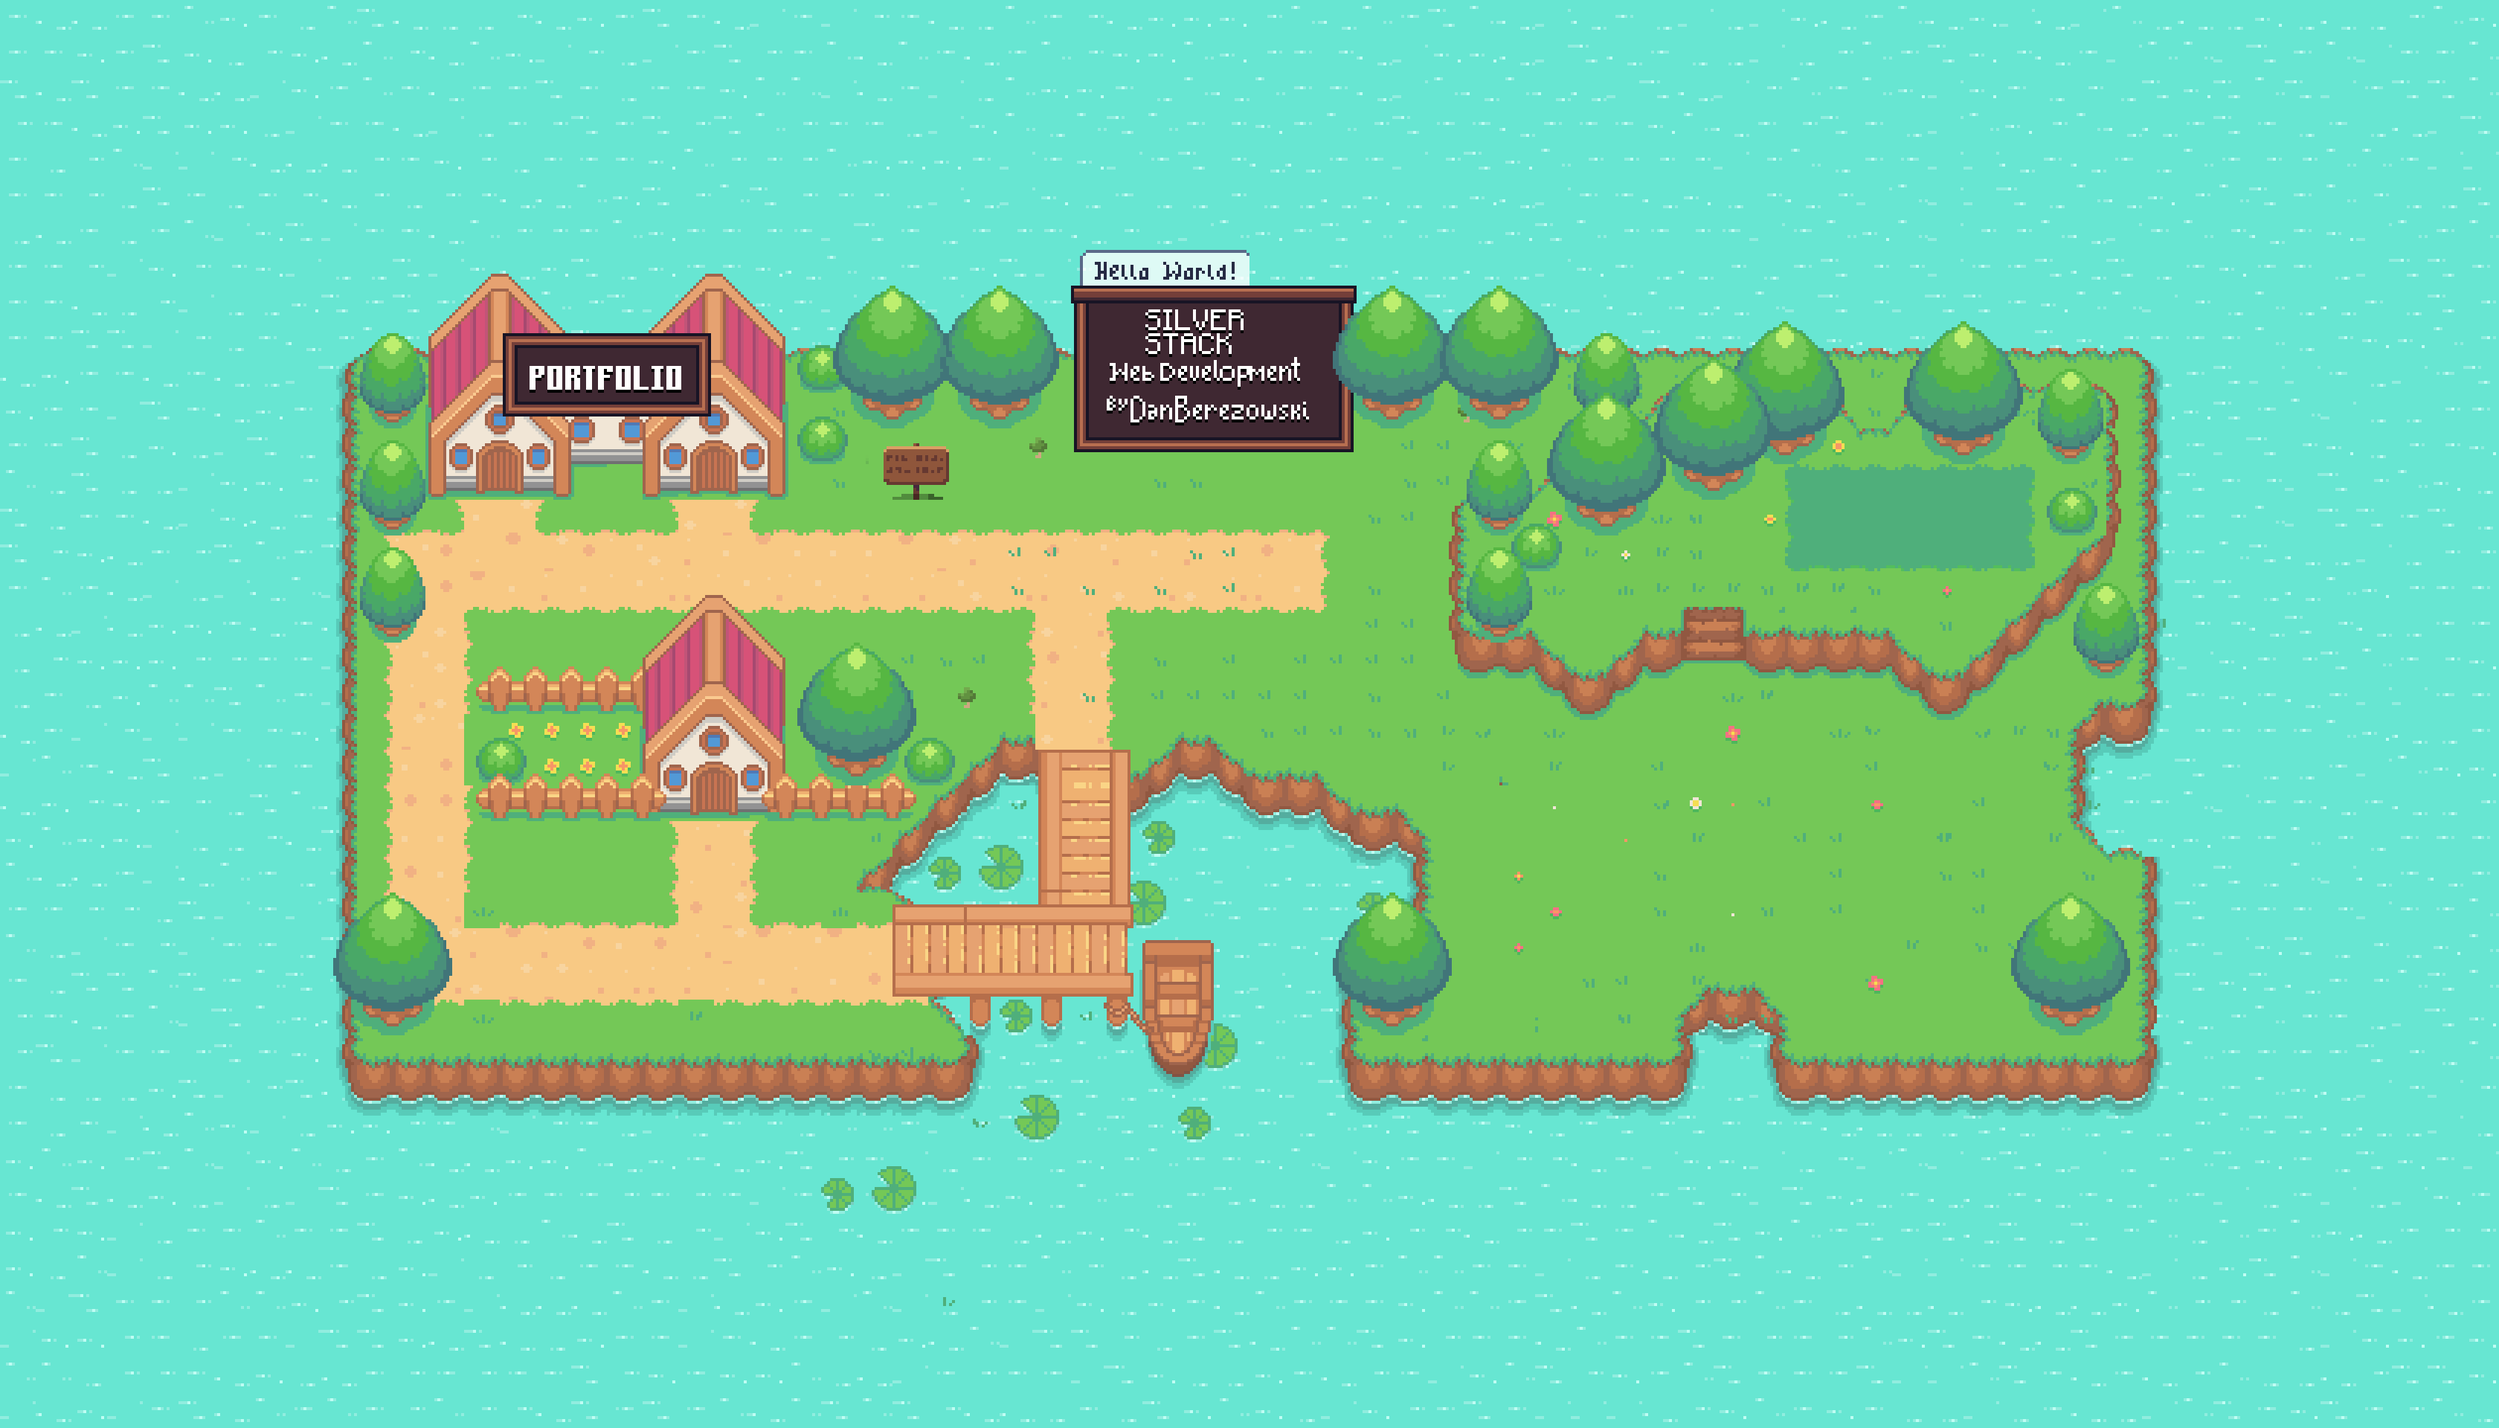
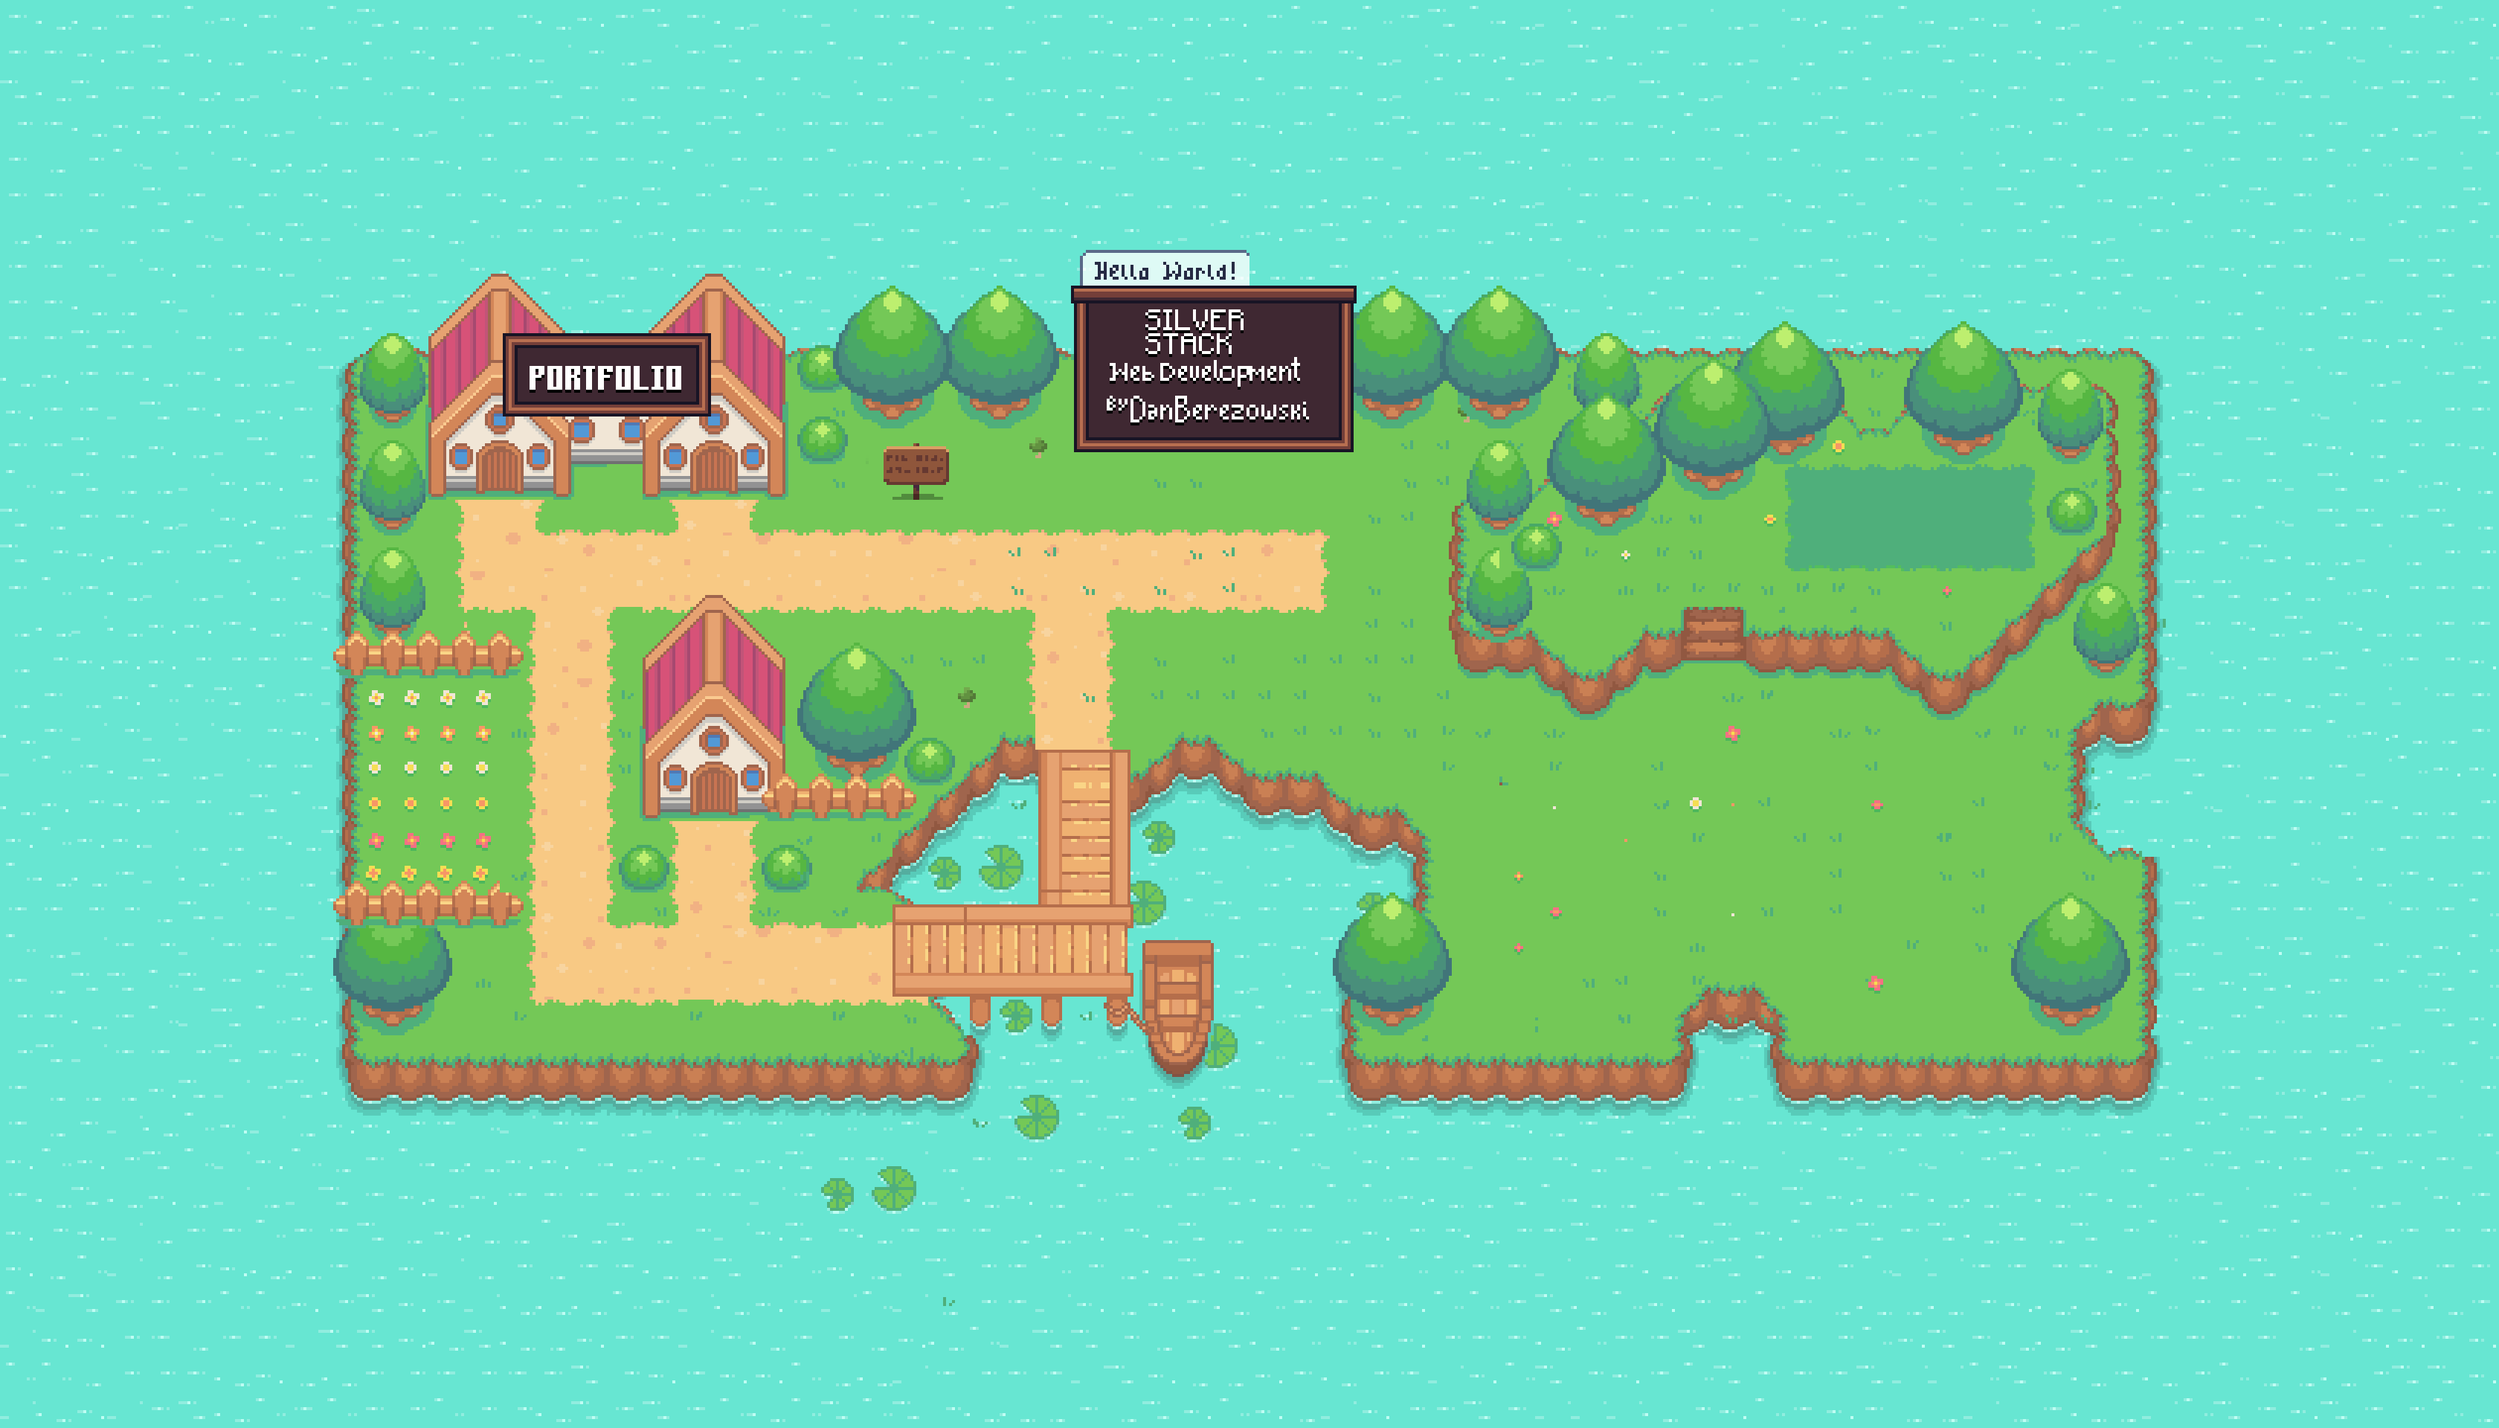
map change

Changed region(s): [[0.125, 0.375, 0.3438, 0.7188], [0.5312, 0.2188, 0.5625, 0.2812]]

diff --git a/js/data/collisions.js b/js/data/collisions.js
@@ -32,14 +32,14 @@ const collision = [
   0, 0, 0, 0, 0, 0, 0, 1025, 0, 0, 0, 0, 1025, 1446, 1446, 0, 0, 0, 0, 0, 0, 0,
   0, 1025, 1025, 0, 0, 0, 0, 0, 1025, 0, 0, 0, 1025, 1025, 0, 0, 0, 1025, 1025,
   1025, 0, 0, 0, 0, 0, 0, 0, 0, 0, 0, 0, 0, 0, 0, 0, 0, 0, 0, 0, 0, 0, 0, 0, 0,
-  0, 0, 1025, 1025, 0, 0, 0, 0, 1025, 1025, 0, 1025, 0, 0, 0, 0, 0, 0, 0, 1025,
-  1025, 1025, 1025, 1025, 1025, 1025, 1025, 0, 0, 0, 0, 0, 0, 0, 1025, 0, 0,
-  1025, 0, 0, 1025, 1025, 1025, 0, 0, 0, 1025, 1025, 0, 0, 0, 0, 0, 0, 0, 0, 0,
-  0, 0, 0, 0, 0, 0, 0, 0, 0, 0, 0, 0, 0, 0, 1025, 0, 0, 1025, 1025, 1025, 1025,
-  0, 0, 1025, 1025, 0, 0, 0, 0, 0, 0, 0, 0, 0, 0, 0, 0, 0, 0, 0, 0, 0, 0, 0, 0,
-  0, 1025, 0, 1025, 0, 1025, 0, 0, 0, 0, 0, 0, 0, 0, 0, 1025, 1025, 0, 0, 0, 0,
-  0, 0, 0, 0, 0, 0, 0, 0, 0, 0, 0, 0, 0, 0, 0, 0, 0, 1446, 0, 0, 0, 0, 0, 0, 0,
-  0, 0, 0, 0, 0, 0, 1025, 0, 0, 0, 0, 0, 0, 0, 0, 0, 0, 0, 0, 0, 0, 0, 0, 1025,
+  0, 0, 1025, 1025, 0, 1446, 1446, 0, 1025, 1025, 0, 1025, 0, 0, 0, 0, 0, 0, 0,
+  1025, 1025, 1025, 1025, 1025, 1025, 1025, 1025, 0, 0, 0, 0, 0, 0, 0, 1025, 0,
+  0, 1025, 0, 0, 1025, 1025, 1025, 0, 0, 0, 1025, 1025, 0, 0, 0, 0, 0, 0, 0, 0,
+  0, 0, 0, 0, 0, 0, 0, 0, 0, 0, 0, 0, 0, 0, 0, 1025, 0, 0, 1025, 0, 0, 1025, 0,
+  0, 1025, 1025, 0, 0, 0, 0, 0, 0, 0, 0, 0, 0, 0, 0, 0, 0, 0, 0, 0, 0, 0, 0, 0,
+  1025, 0, 1025, 0, 1025, 0, 0, 0, 0, 0, 0, 0, 0, 0, 1025, 1025, 0, 0, 0, 0, 0,
+  0, 0, 0, 0, 0, 0, 0, 0, 0, 0, 0, 0, 0, 0, 0, 0, 1446, 0, 0, 0, 0, 0, 0, 0, 0,
+  0, 0, 0, 0, 0, 1025, 0, 0, 0, 0, 0, 0, 0, 0, 0, 0, 0, 0, 0, 0, 0, 0, 1025,
   1025, 0, 0, 0, 1025, 1025, 0, 0, 0, 0, 0, 0, 0, 0, 0, 0, 1025, 0, 0, 0, 0, 0,
   0, 0, 0, 0, 0, 0, 0, 0, 0, 0, 0, 0, 0, 0, 0, 1025, 1025, 0, 0, 0, 0, 0, 0, 0,
   0, 0, 0, 0, 0, 0, 0, 0, 0, 0, 0, 0, 0, 0, 0, 0, 0, 0, 0, 0, 0, 0, 1025, 0, 0,
@@ -52,47 +52,47 @@ const collision = [
   0, 0, 0, 0, 1025, 0, 0, 0, 0, 0, 0, 0, 0, 0, 0, 0, 0, 0, 0, 0, 0, 0, 0, 0, 0,
   0, 1025, 0, 0, 0, 0, 0, 0, 0, 0, 0, 0, 0, 0, 0, 0, 0, 0, 0, 0, 0, 0, 0, 0, 0,
   0, 0, 0, 0, 0, 0, 0, 0, 0, 1025, 0, 0, 0, 0, 0, 0, 0, 0, 0, 0, 0, 0, 0, 1025,
-  1025, 0, 0, 0, 0, 0, 0, 0, 0, 0, 0, 0, 0, 0, 0, 0, 0, 0, 0, 0, 0, 0, 1025, 0,
+  1025, 0, 0, 0, 0, 0, 0, 0, 0, 0, 0, 0, 0, 0, 0, 0, 0, 0, 0, 0, 0, 0, 1025,
+  1446, 1446, 1446, 0, 0, 0, 0, 0, 0, 0, 0, 0, 0, 0, 0, 0, 0, 0, 0, 0, 0, 0, 0,
+  0, 0, 0, 0, 0, 0, 0, 0, 0, 0, 1025, 1025, 1025, 1025, 0, 0, 1446, 1446, 1025,
+  1025, 1025, 0, 1025, 0, 0, 1025, 1025, 0, 0, 0, 0, 0, 0, 0, 0, 0, 0, 0, 0, 0,
+  0, 0, 0, 0, 0, 0, 1025, 0, 0, 0, 0, 0, 0, 0, 0, 0, 1025, 1025, 0, 0, 0, 0, 0,
   0, 0, 0, 0, 0, 0, 0, 0, 0, 0, 0, 0, 0, 0, 0, 0, 0, 0, 0, 0, 0, 0, 0, 0, 0, 0,
-  0, 0, 0, 0, 0, 0, 1025, 1025, 1025, 1025, 0, 0, 1446, 1446, 1025, 1025, 1025,
-  0, 1025, 0, 0, 1025, 1025, 0, 0, 0, 0, 0, 0, 0, 0, 0, 0, 0, 0, 0, 0, 0, 0, 0,
-  0, 0, 1025, 0, 0, 0, 0, 1025, 1025, 1025, 1025, 1025, 1025, 1025, 1025, 0, 0,
+  0, 0, 1025, 0, 0, 0, 0, 0, 1025, 0, 0, 0, 0, 0, 0, 0, 0, 0, 0, 0, 0, 0, 0, 0,
+  0, 0, 0, 1025, 0, 0, 0, 0, 0, 0, 0, 0, 1025, 1025, 1025, 1025, 0, 0, 0, 0, 0,
   0, 0, 0, 0, 0, 0, 0, 0, 0, 0, 0, 0, 0, 0, 0, 0, 0, 0, 0, 0, 0, 0, 0, 0, 0, 0,
-  0, 0, 0, 0, 1025, 0, 0, 0, 0, 0, 1025, 0, 0, 0, 0, 0, 0, 0, 0, 0, 0, 0, 0, 0,
-  0, 0, 0, 0, 0, 1025, 0, 0, 0, 0, 1025, 0, 0, 0, 1025, 1025, 1025, 1025, 0, 0,
-  0, 0, 0, 0, 0, 0, 0, 0, 0, 0, 0, 0, 0, 0, 0, 0, 0, 0, 0, 0, 0, 0, 0, 0, 0, 0,
-  0, 0, 0, 0, 0, 0, 0, 0, 0, 0, 1025, 0, 0, 0, 0, 0, 0, 0, 0, 0, 0, 0, 0, 0, 0,
-  0, 0, 0, 0, 1025, 0, 0, 0, 0, 1025, 1025, 1025, 1025, 1025, 0, 0, 1025, 1025,
-  1025, 1025, 0, 0, 0, 1025, 0, 0, 0, 1446, 1025, 0, 0, 0, 0, 0, 0, 0, 0, 0, 0,
-  0, 0, 0, 0, 0, 0, 0, 0, 0, 0, 0, 0, 0, 0, 0, 0, 1025, 0, 0, 0, 0, 0, 0, 0, 0,
-  0, 0, 0, 0, 0, 0, 0, 0, 0, 0, 1025, 0, 0, 0, 0, 0, 0, 0, 0, 0, 0, 0, 0, 0, 0,
-  0, 1025, 1025, 1025, 0, 0, 0, 0, 1025, 0, 1025, 1025, 1025, 0, 0, 0, 0, 0, 0,
-  0, 0, 0, 0, 0, 0, 0, 0, 0, 0, 0, 0, 0, 0, 0, 0, 0, 1025, 0, 0, 0, 0, 0, 0, 0,
-  0, 0, 0, 0, 0, 0, 0, 0, 0, 0, 0, 1025, 0, 0, 0, 0, 0, 0, 0, 0, 0, 0, 0, 0, 0,
-  0, 0, 1025, 0, 0, 0, 0, 0, 0, 1446, 0, 0, 0, 0, 1025, 1025, 0, 0, 0, 0, 0, 0,
-  0, 0, 0, 0, 0, 0, 0, 0, 0, 0, 0, 0, 0, 0, 0, 1025, 0, 0, 0, 0, 0, 0, 0, 0, 0,
+  0, 0, 0, 0, 0, 0, 0, 1025, 0, 0, 0, 0, 0, 0, 0, 0, 0, 0, 0, 0, 0, 0, 0, 0, 0,
+  0, 1025, 0, 0, 0, 0, 0, 0, 0, 0, 1025, 0, 0, 1025, 1025, 1025, 1025, 0, 0, 0,
+  1025, 0, 0, 0, 1446, 1025, 0, 0, 0, 0, 0, 0, 0, 0, 0, 0, 0, 0, 0, 0, 0, 0, 0,
   0, 0, 0, 0, 0, 0, 0, 0, 0, 1025, 0, 0, 0, 0, 0, 0, 0, 0, 0, 0, 0, 0, 0, 0, 0,
-  1025, 1025, 1025, 1025, 0, 0, 0, 1446, 0, 0, 0, 0, 0, 0, 1025, 0, 0, 0, 0, 0,
-  0, 0, 0, 0, 0, 0, 0, 0, 0, 0, 0, 0, 0, 0, 0, 1025, 0, 0, 0, 0, 0, 0, 0, 0, 0,
-  0, 0, 0, 0, 0, 0, 0, 0, 0, 1025, 0, 0, 0, 0, 0, 0, 0, 0, 0, 0, 0, 0, 0, 0, 0,
-  0, 0, 0, 0, 0, 0, 0, 1446, 0, 0, 0, 0, 0, 1446, 0, 0, 0, 0, 0, 0, 0, 0, 0, 0,
+  0, 0, 0, 1025, 0, 0, 0, 0, 0, 0, 0, 0, 0, 0, 0, 0, 0, 0, 0, 1025, 1025, 1025,
+  1446, 0, 0, 0, 1025, 0, 1025, 1025, 1025, 0, 0, 0, 0, 0, 0, 0, 0, 0, 0, 0, 0,
   0, 0, 0, 0, 0, 0, 0, 0, 0, 0, 0, 1025, 0, 0, 0, 0, 0, 0, 0, 0, 0, 0, 0, 0, 0,
-  0, 0, 0, 0, 0, 1025, 0, 0, 0, 0, 0, 0, 0, 0, 0, 0, 0, 0, 0, 0, 0, 0, 0, 0, 0,
+  0, 0, 0, 0, 0, 1025, 0, 0, 0, 0, 0, 0, 0, 0, 0, 0, 0, 0, 0, 0, 0, 1025, 1446,
+  1446, 1446, 0, 0, 0, 1446, 0, 0, 0, 0, 1025, 1025, 0, 0, 0, 0, 0, 0, 0, 0, 0,
+  0, 0, 0, 0, 0, 0, 0, 0, 0, 0, 0, 0, 1025, 0, 0, 0, 0, 0, 0, 0, 0, 0, 0, 0, 0,
+  0, 0, 0, 0, 0, 0, 1025, 0, 0, 0, 0, 0, 0, 0, 0, 0, 0, 0, 0, 0, 0, 0, 0, 0, 0,
+  0, 0, 0, 0, 1446, 0, 0, 0, 0, 0, 0, 1025, 0, 0, 0, 0, 0, 0, 0, 0, 0, 0, 0, 0,
+  0, 0, 0, 0, 0, 0, 0, 0, 1025, 0, 0, 0, 0, 0, 0, 0, 0, 0, 0, 0, 0, 0, 0, 0, 0,
+  0, 0, 1025, 1446, 1446, 1446, 0, 0, 0, 0, 0, 0, 0, 0, 0, 0, 0, 0, 0, 0, 0, 0,
   0, 0, 0, 1446, 0, 0, 0, 0, 0, 1446, 0, 0, 0, 0, 0, 0, 0, 0, 0, 0, 0, 0, 0, 0,
   0, 0, 0, 0, 0, 0, 0, 1025, 0, 0, 0, 0, 0, 0, 0, 0, 0, 0, 0, 0, 0, 0, 0, 0, 0,
   0, 1025, 0, 0, 0, 0, 0, 0, 0, 0, 0, 0, 0, 0, 0, 0, 0, 0, 0, 0, 0, 0, 0, 0,
   1446, 0, 0, 0, 0, 0, 1446, 0, 0, 0, 0, 0, 0, 0, 0, 0, 0, 0, 0, 0, 0, 0, 0, 0,
-  0, 0, 0, 1025, 0, 0, 0, 0, 0, 0, 0, 0, 0, 0, 0, 0, 0, 0, 0, 0, 0, 0, 0, 1025,
-  1025, 1025, 0, 0, 0, 0, 0, 0, 0, 0, 0, 0, 0, 0, 0, 0, 0, 1025, 1025, 1025,
-  1025, 1446, 0, 0, 0, 0, 0, 1446, 0, 0, 0, 0, 0, 0, 0, 0, 0, 0, 1025, 0, 0, 0,
-  0, 0, 0, 0, 0, 1025, 1025, 0, 0, 0, 0, 0, 0, 0, 0, 0, 0, 0, 0, 0, 0, 0, 0, 0,
-  0, 0, 0, 0, 0, 1025, 0, 0, 0, 0, 0, 0, 0, 0, 0, 0, 0, 0, 0, 0, 0, 1025, 0, 0,
-  0, 0, 0, 0, 0, 0, 0, 1446, 0, 0, 0, 0, 0, 0, 0, 0, 0, 1025, 0, 1025, 0, 0, 0,
-  0, 0, 0, 0, 1025, 0, 0, 0, 0, 0, 0, 0, 0, 0, 0, 0, 0, 0, 0, 0, 0, 0, 0, 0, 0,
-  0, 0, 0, 1025, 1025, 1025, 1025, 1025, 1025, 1025, 1025, 1025, 1025, 1025,
-  1025, 1025, 1025, 1025, 1025, 0, 0, 0, 0, 0, 0, 0, 0, 0, 0, 1025, 1025, 1025,
-  1025, 1025, 1025, 1025, 1025, 1025, 1025, 0, 0, 0, 1025, 1025, 1025, 1025,
-  1025, 1025, 1025, 0, 0, 0, 0, 0, 0, 0, 0, 0, 0, 0, 0, 0, 0, 0, 0, 0, 0, 0, 0,
+  0, 0, 0, 0, 1025, 0, 0, 0, 0, 0, 0, 0, 0, 0, 0, 0, 0, 0, 0, 0, 0, 0, 0, 1025,
+  0, 0, 0, 0, 0, 0, 0, 0, 0, 0, 0, 0, 0, 0, 0, 0, 0, 0, 0, 0, 0, 0, 1446, 0, 0,
+  0, 0, 0, 1446, 0, 0, 0, 0, 0, 0, 0, 0, 0, 0, 0, 0, 0, 0, 0, 0, 0, 0, 0, 0,
+  1025, 0, 0, 0, 0, 0, 0, 0, 0, 0, 0, 0, 0, 0, 0, 0, 0, 0, 0, 0, 1025, 1025,
+  1025, 0, 0, 0, 0, 0, 0, 0, 0, 0, 0, 0, 0, 0, 0, 0, 1025, 1025, 1025, 1025,
+  1446, 0, 0, 0, 0, 0, 1446, 0, 0, 0, 0, 0, 0, 0, 0, 0, 0, 1025, 0, 0, 0, 0, 0,
+  0, 0, 0, 1025, 1025, 0, 0, 0, 0, 0, 0, 0, 0, 0, 0, 0, 0, 0, 0, 0, 0, 0, 0, 0,
+  0, 0, 0, 1025, 0, 0, 0, 0, 0, 0, 0, 0, 0, 0, 0, 0, 0, 0, 0, 1025, 0, 0, 0, 0,
+  0, 0, 0, 0, 0, 1446, 0, 0, 0, 0, 0, 0, 0, 0, 0, 1025, 0, 1025, 0, 0, 0, 0, 0,
+  0, 0, 1025, 0, 0, 0, 0, 0, 0, 0, 0, 0, 0, 0, 0, 0, 0, 0, 0, 0, 0, 0, 0, 0, 0,
+  0, 1025, 1025, 1025, 1025, 1025, 1025, 1025, 1025, 1025, 1025, 1025, 1025,
+  1025, 1025, 1025, 1025, 0, 0, 0, 0, 0, 0, 0, 0, 0, 0, 1025, 1025, 1025, 1025,
+  1025, 1025, 1025, 1025, 1025, 1025, 0, 0, 0, 1025, 1025, 1025, 1025, 1025,
+  1025, 1025, 0, 0, 0, 0, 0, 0, 0, 0, 0, 0, 0, 0, 0, 0, 0, 0, 0, 0, 0, 0, 0, 0,
   0, 0, 0, 0, 0, 0, 0, 0, 0, 0, 0, 0, 0, 0, 0, 0, 0, 0, 0, 0, 0, 0, 0, 0, 0, 0,
   0, 0, 0, 0, 0, 0, 0, 0, 0, 0, 0, 0, 0, 0, 0, 0, 0, 0, 0, 0, 0, 0, 0, 0, 0, 0,
   0, 0, 0, 0, 0, 0, 0, 0, 0, 0, 0, 0, 0, 0, 0, 0, 0, 0, 0, 0, 0, 0, 0, 0, 0, 0,
@@ -116,5 +116,5 @@ const collision = [
   0, 0, 0, 0, 0, 0, 0, 0, 0, 0, 0, 0, 0, 0, 0, 0, 0, 0, 0, 0, 0, 0, 0, 0, 0, 0,
   0, 0, 0, 0, 0, 0, 0, 0, 0, 0, 0, 0, 0, 0, 0, 0, 0, 0, 0, 0, 0, 0, 0, 0, 0, 0,
   0, 0, 0, 0, 0, 0, 0, 0, 0, 0, 0, 0, 0, 0, 0, 0, 0, 0, 0, 0, 0, 0, 0, 0, 0, 0,
-  0, 0, 0, 0, 0, 0, 0, 0, 0, 0, 0, 0, 0, 0, 0, 0, 0, 0, 0, 0, 0, 0, 0, 0, 0,
+  0, 0, 0, 0, 0, 0, 0, 0, 0, 0, 0, 0, 0, 0, 0, 0, 0, 0, 0, 0, 0, 0, 0,
 ];

diff --git a/index.css b/index.css
@@ -51,6 +51,97 @@ body {
   background-color: rgba(0, 0, 0, 1);
   color: white;
 }
+/* LOADING SCRREN */
+.pixel-loader {
+  width: 8rem;
+  height: 3rem;
+  position: relative;
+}
+.pixel-loader .pixel {
+  width: 0.8rem;
+  height: 0.8rem;
+  display: block;
+  position: absolute;
+  opacity: 0;
+  -webkit-animation: pixel-fly 2s infinite;
+  animation: pixel-fly 2s infinite;
+}
+.pixel-loader .pixel:before {
+  content: '';
+  transition: all 0.3s ease;
+  display: block;
+  background: #ddd;
+  width: 100%;
+  height: 100%;
+  -webkit-backface-visibility: hidden;
+  backface-visibility: hidden;
+  -webkit-animation: pixel-inner 2s infinite;
+  animation: pixel-inner 2s infinite;
+}
+.pixel-loader .pixel.pixel-1 {
+  transform: translateX(0);
+  top: 6%;
+}
+.pixel-loader .pixel.pixel-2 {
+  -webkit-animation-duration: 1.5s;
+  animation-duration: 1.5s;
+  -webkit-animation-delay: 1s;
+  animation-delay: 1s;
+  top: 60%;
+}
+.pixel-loader .pixel.pixel-3 {
+  -webkit-animation-delay: 0.5s;
+  animation-delay: 0.5s;
+  top: 22%;
+}
+.pixel-loader .pixel.pixel-4 {
+  -webkit-animation-duration: 1.2s;
+  animation-duration: 1.2s;
+  top: 17%;
+}
+.pixel-loader .pixel.pixel-5 {
+  -webkit-animation-duration: 1s;
+  animation-duration: 1s;
+  top: 65%;
+}
+.pixel-loader .pixel.pixel-small {
+  width: 0.45rem;
+  height: 0.45rem;
+}
+.pixel-loader .pixel.pixel-medium {
+  width: 0.6rem;
+  height: 0.6rem;
+}
+
+@-webkit-keyframes pixel-fly {
+  50% {
+    opacity: 1;
+  }
+  100% {
+    transform: translateX(7rem);
+    opacity: 0;
+  }
+}
+
+@keyframes pixel-fly {
+  50% {
+    opacity: 1;
+  }
+  100% {
+    transform: translateX(7rem);
+    opacity: 0;
+  }
+}
+@-webkit-keyframes pixel-inner {
+  80% {
+    background: lightgreen;
+  }
+}
+@keyframes pixel-inner {
+  80% {
+    background: lightgreen;
+  }
+}
 
 #start-screen {
   position: absolute;

diff --git a/index.html b/index.html
@@ -59,20 +59,14 @@
     <div class="wrap">
       <div id="transition" class="battle-transition"></div>
       <div id="loading" class="loading">
-        <div
-          style="
-            width: 5rem;
-            height: 5rem;
-            padding: 2rem;
-            border-radius: 50%;
-
-            box-shadow: 0 0 0.5rem 0.5rem #000;
-          "
-          class="spinner-grow text-success"
-          role="status"
-        >
-          <span class="sr-only">Loading...</span>
+        <div class="pixel-loader">
+          <span class="pixel pixel-1"></span>
+          <span class="pixel pixel-2"></span>
+          <span class="pixel pixel-3"></span>
+          <span class="pixel pixel-4 pixel-medium"></span>
+          <span class="pixel pixel-5 pixel-small"></span>
         </div>
+
         <div
           class="progress"
           style="width: 20rem; margin-top: 5rem; transform: translateY(-50%)"
@@ -87,7 +81,7 @@
             aria-valuemax="100"
           ></div>
         </div>
-        <span class="mt-5">Loading...</span>
+        <span id="type-effect-loading" class="mt-5">Loading</span>
       </div>
       <div id="start-screen" class="start-screen">
         <img

diff --git a/index.js b/index.js
@@ -521,6 +521,7 @@ const tapStart = document.querySelector('#tap-start');
 const startBtn = document.querySelector('#start-btn');
 const loading = document.querySelector('#loading');
 const startHud = document.querySelector('#start-hud');
+const typeEffect = document.querySelector('#type-effect-loading');
 
 let clicked = false;
 window.addEventListener('click', () => {
@@ -529,6 +530,17 @@ window.addEventListener('click', () => {
     clicked = true;
   }
 });
+
+// typewriter effect for typeEffect
+const typeEffectText = typeEffect.innerHTML;
+let typeEffectIndex = 0;
+
+const typeEffectInterval = setInterval(() => {
+  typeEffect.innerHTML = typeEffectText.slice(0, typeEffectIndex++);
+  if (typeEffectIndex > typeEffectText.length) {
+    clearInterval(typeEffectInterval);
+  }
+}, 200);
 
 // Flash tap-start text on screen if !clicked
 let tapStartTimer = setInterval(() => {
